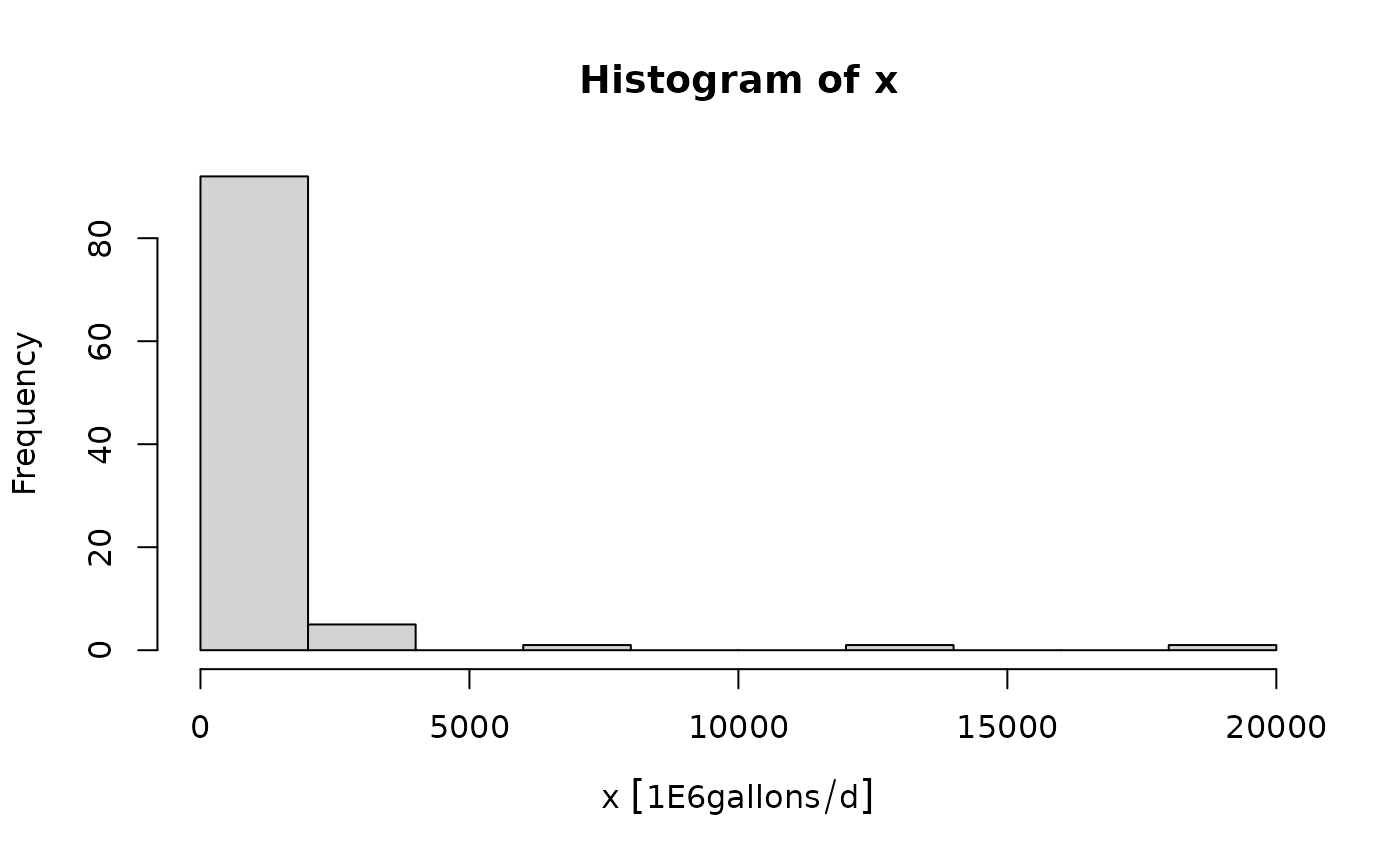
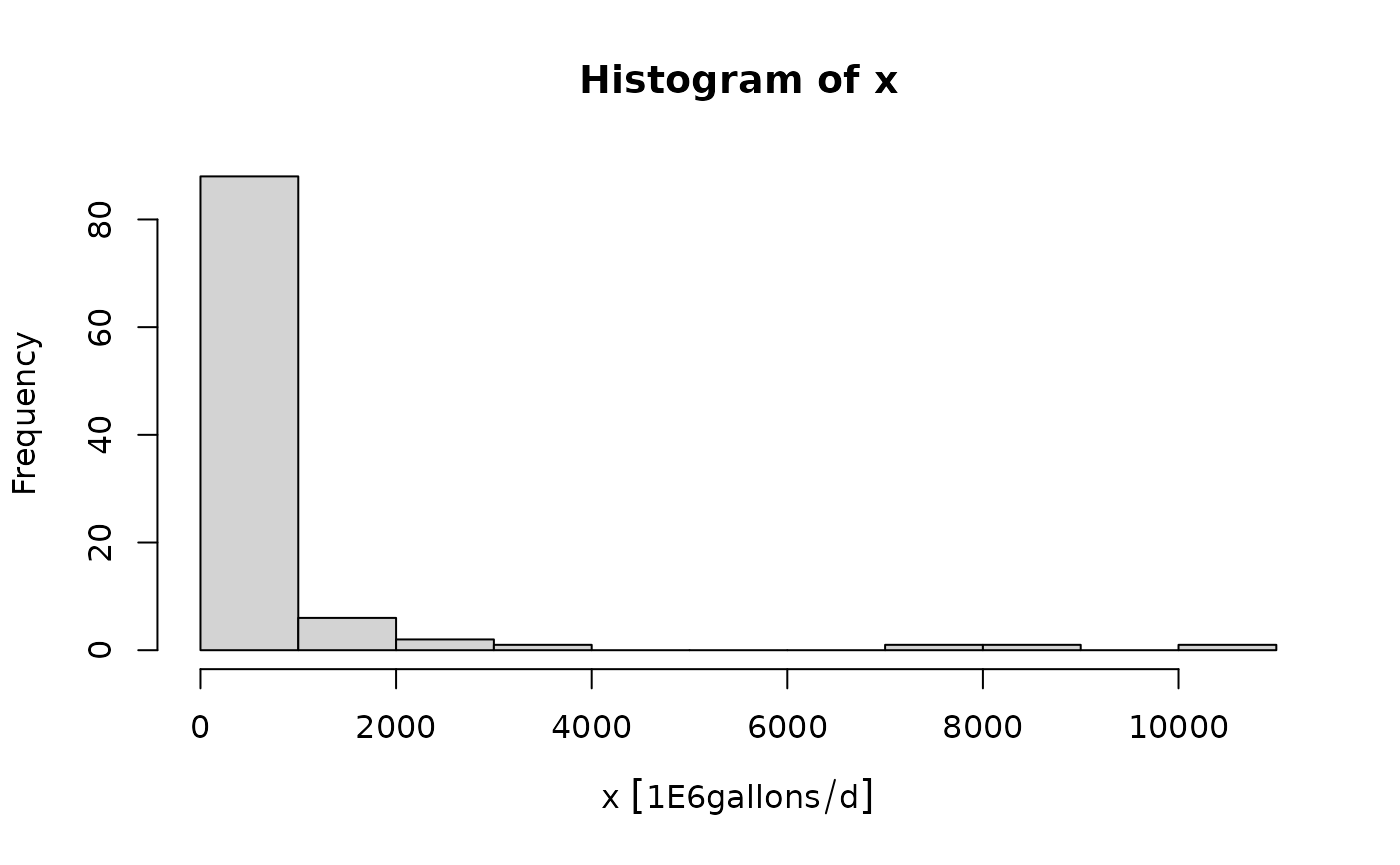
Built site for ldc: 0.1.0@d44d15d

diff --git a/articles/units.html b/articles/units.html
@@ -97,76 +97,76 @@
 <span class="va">x</span> <span class="op">&lt;-</span> <span class="fu"><a href="https://rdrr.io/pkg/units/man/units.html" class="external-link">set_units</a></span><span class="op">(</span><span class="va">x</span>, <span class="st">"ft^3/s"</span><span class="op">)</span>
 <span class="va">x</span>
 <span class="co">#&gt; Units: [ft^3/s]</span>
-<span class="co">#&gt;   [1] 3.305217e+03 2.237243e+01 6.843526e+01 5.130397e-01 8.465099e+02</span>
-<span class="co">#&gt;   [6] 3.261493e+01 4.209772e+01 1.619673e+01 2.472124e+01 8.180078e+02</span>
-<span class="co">#&gt;  [11] 5.910870e+03 1.002994e+01 7.187791e+00 5.559155e+02 2.669817e+01</span>
-<span class="co">#&gt;  [16] 7.557542e+01 1.738401e+01 2.705508e+01 4.896507e+00 1.303612e+03</span>
-<span class="co">#&gt;  [21] 1.439782e+01 3.661344e+01 5.021760e+03 1.647707e+02 2.560844e+03</span>
-<span class="co">#&gt;  [26] 7.364910e-01 6.789498e+02 1.184617e+01 7.315961e+01 1.384772e+01</span>
-<span class="co">#&gt;  [31] 7.428468e+02 7.576590e+02 1.375925e+02 5.815625e+00 4.023443e+01</span>
-<span class="co">#&gt;  [36] 2.602308e+01 3.559056e+00 2.981858e+04 7.992568e+01 5.448878e+00</span>
-<span class="co">#&gt;  [41] 5.757906e+02 2.459403e+00 1.312775e+03 6.292475e+00 7.633091e+00</span>
-<span class="co">#&gt;  [46] 3.772260e+02 1.311790e+01 4.947215e+02 1.808063e+02 2.243639e+02</span>
-<span class="co">#&gt;  [51] 4.623318e+02 1.027519e+02 2.078196e+02 6.443158e+00 3.172421e+02</span>
-<span class="co">#&gt;  [56] 1.887825e+00 1.548666e+02 3.073110e+01 1.224608e+00 1.333124e+01</span>
-<span class="co">#&gt;  [61] 7.415647e+01 9.282686e+01 9.816047e+02 5.311807e+02 9.999362e+03</span>
-<span class="co">#&gt;  [66] 7.673251e+01 1.993032e+04 3.037631e+02 4.225274e-01 8.347452e+01</span>
-<span class="co">#&gt;  [71] 6.504620e+02 1.784513e+03 2.930827e+02 2.668672e+03 8.941402e+00</span>
-<span class="co">#&gt;  [76] 1.019004e+02 4.301757e+00 1.678122e+02 1.166100e+01 2.072369e+01</span>
-<span class="co">#&gt;  [81] 3.715639e+01 1.617803e+02 1.397819e+03 5.458505e+03 3.031891e+02</span>
-<span class="co">#&gt;  [86] 2.377440e+01 1.786722e+01 2.393758e+01 1.984455e+01 7.954231e+02</span>
-<span class="co">#&gt;  [91] 1.380240e+02 3.489321e+03 4.282422e+02 3.968873e+01 7.352239e+01</span>
-<span class="co">#&gt;  [96] 3.573688e+01 5.207961e+01 7.638658e+01 2.172734e+02 1.113797e+01</span></code></pre></div>
+<span class="co">#&gt;   [1]   198.244738     1.377296    22.986791  1744.141817    10.722960</span>
+<span class="co">#&gt;   [6]   184.201175     7.096251    82.587769    58.993986   501.604566</span>
+<span class="co">#&gt;  [11]    30.155371     6.533947    62.429439 17006.730933  2271.703151</span>
+<span class="co">#&gt;  [16]    13.365492   212.617723    27.044502     4.665912    31.864053</span>
+<span class="co">#&gt;  [21]    65.564056   528.648919     4.462644  6016.813560     6.588087</span>
+<span class="co">#&gt;  [26]    14.502402  1392.888883    45.628694    24.164122    50.279935</span>
+<span class="co">#&gt;  [31]    12.234267    44.576009     4.470887    57.691876    40.937223</span>
+<span class="co">#&gt;  [36]    44.090073     5.232488   654.161344    28.645744     5.502458</span>
+<span class="co">#&gt;  [41]  3303.771576   242.737185    11.105492  1083.307517   853.245838</span>
+<span class="co">#&gt;  [46]   110.781533    16.398656   461.277497    69.405736   117.954362</span>
+<span class="co">#&gt;  [51]     2.189945   118.595715  3835.141619    30.486449   159.909549</span>
+<span class="co">#&gt;  [56]    16.240850   151.832580  1233.088694    54.726964    23.100766</span>
+<span class="co">#&gt;  [61]   440.834235   630.081457  1990.296104    12.925787  1587.621005</span>
+<span class="co">#&gt;  [66]     6.142746   630.916843 11173.262114    68.351378 13789.569070</span>
+<span class="co">#&gt;  [71]     1.573709    32.497518   522.000903    14.542676    54.479840</span>
+<span class="co">#&gt;  [76]    31.692962   214.984260    44.418574   114.634036   536.240390</span>
+<span class="co">#&gt;  [81]   291.390345    37.438940    94.015468   790.385016  1454.434591</span>
+<span class="co">#&gt;  [86]   381.905914    30.497195    37.086893     4.214432   926.021152</span>
+<span class="co">#&gt;  [91]  2278.752823    14.901414  2412.694040    34.534378    30.528571</span>
+<span class="co">#&gt;  [96]     3.633051  1329.385884   902.954793    87.276794     6.329255</span></code></pre></div>
 <p>x is a object of type units which can be used with most R expressions:</p>
 <div class="sourceCode" id="cb3"><pre class="downlit sourceCode r">
 <code class="sourceCode R"><span class="va">x</span> <span class="op">*</span> <span class="fl">86400</span>
 <span class="co">#&gt; Units: [ft^3/s]</span>
-<span class="co">#&gt;   [1] 2.855708e+08 1.932978e+06 5.912806e+06 4.432663e+04 7.313846e+07</span>
-<span class="co">#&gt;   [6] 2.817930e+06 3.637243e+06 1.399398e+06 2.135916e+06 7.067587e+07</span>
-<span class="co">#&gt;  [11] 5.106992e+08 8.665870e+05 6.210251e+05 4.803110e+07 2.306722e+06</span>
-<span class="co">#&gt;  [16] 6.529716e+06 1.501978e+06 2.337559e+06 4.230582e+05 1.126321e+08</span>
-<span class="co">#&gt;  [21] 1.243972e+06 3.163401e+06 4.338801e+08 1.423619e+07 2.212569e+08</span>
-<span class="co">#&gt;  [26] 6.363282e+04 5.866127e+07 1.023509e+06 6.320990e+06 1.196443e+06</span>
-<span class="co">#&gt;  [31] 6.418197e+07 6.546174e+07 1.188799e+07 5.024700e+05 3.476255e+06</span>
-<span class="co">#&gt;  [36] 2.248394e+06 3.075024e+05 2.576326e+09 6.905579e+06 4.707831e+05</span>
-<span class="co">#&gt;  [41] 4.974831e+07 2.124924e+05 1.134238e+08 5.436698e+05 6.594990e+05</span>
-<span class="co">#&gt;  [46] 3.259233e+07 1.133386e+06 4.274394e+07 1.562166e+07 1.938504e+07</span>
-<span class="co">#&gt;  [51] 3.994547e+07 8.877762e+06 1.795562e+07 5.566888e+05 2.740972e+07</span>
-<span class="co">#&gt;  [56] 1.631081e+05 1.338047e+07 2.655167e+06 1.058061e+05 1.151819e+06</span>
-<span class="co">#&gt;  [61] 6.407119e+06 8.020241e+06 8.481065e+07 4.589401e+07 8.639449e+08</span>
-<span class="co">#&gt;  [66] 6.629689e+06 1.721980e+09 2.624513e+07 3.650637e+04 7.212198e+06</span>
-<span class="co">#&gt;  [71] 5.619992e+07 1.541820e+08 2.532235e+07 2.305732e+08 7.725371e+05</span>
-<span class="co">#&gt;  [76] 8.804192e+06 3.716718e+05 1.449897e+07 1.007511e+06 1.790527e+06</span>
-<span class="co">#&gt;  [81] 3.210312e+06 1.397782e+07 1.207715e+08 4.716148e+08 2.619554e+07</span>
-<span class="co">#&gt;  [86] 2.054108e+06 1.543728e+06 2.068207e+06 1.714569e+06 6.872456e+07</span>
-<span class="co">#&gt;  [91] 1.192528e+07 3.014773e+08 3.700012e+07 3.429106e+06 6.352335e+06</span>
-<span class="co">#&gt;  [96] 3.087667e+06 4.499678e+06 6.599801e+06 1.877242e+07 9.623207e+05</span></code></pre></div>
+<span class="co">#&gt;   [1]   17128345.4     118998.3    1986058.7  150693853.0     926463.8</span>
+<span class="co">#&gt;   [6]   15914981.5     613116.1    7135583.2    5097080.4   43338634.5</span>
+<span class="co">#&gt;  [11]    2605424.0     564533.1    5393903.5 1469381552.6  196275152.2</span>
+<span class="co">#&gt;  [16]    1154778.5   18370171.3    2336644.9     403134.8    2753054.2</span>
+<span class="co">#&gt;  [21]    5664734.5   45675266.6     385572.4  519852691.6     569210.7</span>
+<span class="co">#&gt;  [26]    1253007.5  120345599.4    3942319.2    2087780.1    4344186.4</span>
+<span class="co">#&gt;  [31]    1057040.6    3851367.1     386284.6    4984578.1    3536976.1</span>
+<span class="co">#&gt;  [36]    3809382.3     452087.0   56519540.1    2474992.3     475412.4</span>
+<span class="co">#&gt;  [41]  285445864.1   20972492.8     959514.5   93597769.4   73720440.4</span>
+<span class="co">#&gt;  [46]    9571524.5    1416843.9   39854375.8    5996655.6   10191256.8</span>
+<span class="co">#&gt;  [51]     189211.2   10246669.8  331356235.9    2634029.2   13816185.0</span>
+<span class="co">#&gt;  [56]    1403209.4   13118335.0  106538863.1    4728409.7    1995906.2</span>
+<span class="co">#&gt;  [61]   38088077.9   54439037.9  171961583.4    1116788.0  137170454.8</span>
+<span class="co">#&gt;  [66]     530733.3   54511215.3  965369846.7    5905559.0 1191418767.6</span>
+<span class="co">#&gt;  [71]     135968.5    2807785.5   45100878.0    1256487.2    4707058.2</span>
+<span class="co">#&gt;  [76]    2738271.9   18574640.1    3837764.8    9904380.7   46331169.7</span>
+<span class="co">#&gt;  [81]   25176125.8    3234724.4    8122936.4   68289265.4  125663148.6</span>
+<span class="co">#&gt;  [86]   32996670.9    2634957.6    3204307.6     364126.9   80008227.6</span>
+<span class="co">#&gt;  [91]  196884243.9    1287482.2  208456765.0    2983770.3    2637668.6</span>
+<span class="co">#&gt;  [96]     313895.6  114858940.3   78015294.2    7540715.0     546847.6</span></code></pre></div>
 <p>The units can be converted:</p>
 <div class="sourceCode" id="cb4"><pre class="downlit sourceCode r">
 <code class="sourceCode R"><span class="co">## convert to cubic feet per day</span>
 <span class="va">x</span> <span class="op">&lt;-</span> <span class="fu"><a href="https://rdrr.io/pkg/units/man/units.html" class="external-link">set_units</a></span><span class="op">(</span><span class="va">x</span>, <span class="st">"ft^3/d"</span><span class="op">)</span>
 <span class="va">x</span>
 <span class="co">#&gt; Units: [ft^3/d]</span>
-<span class="co">#&gt;   [1] 2.855708e+08 1.932978e+06 5.912806e+06 4.432663e+04 7.313846e+07</span>
-<span class="co">#&gt;   [6] 2.817930e+06 3.637243e+06 1.399398e+06 2.135916e+06 7.067587e+07</span>
-<span class="co">#&gt;  [11] 5.106992e+08 8.665870e+05 6.210251e+05 4.803110e+07 2.306722e+06</span>
-<span class="co">#&gt;  [16] 6.529716e+06 1.501978e+06 2.337559e+06 4.230582e+05 1.126321e+08</span>
-<span class="co">#&gt;  [21] 1.243972e+06 3.163401e+06 4.338801e+08 1.423619e+07 2.212569e+08</span>
-<span class="co">#&gt;  [26] 6.363282e+04 5.866127e+07 1.023509e+06 6.320990e+06 1.196443e+06</span>
-<span class="co">#&gt;  [31] 6.418197e+07 6.546174e+07 1.188799e+07 5.024700e+05 3.476255e+06</span>
-<span class="co">#&gt;  [36] 2.248394e+06 3.075024e+05 2.576326e+09 6.905579e+06 4.707831e+05</span>
-<span class="co">#&gt;  [41] 4.974831e+07 2.124924e+05 1.134238e+08 5.436698e+05 6.594990e+05</span>
-<span class="co">#&gt;  [46] 3.259233e+07 1.133386e+06 4.274394e+07 1.562166e+07 1.938504e+07</span>
-<span class="co">#&gt;  [51] 3.994547e+07 8.877762e+06 1.795562e+07 5.566888e+05 2.740972e+07</span>
-<span class="co">#&gt;  [56] 1.631081e+05 1.338047e+07 2.655167e+06 1.058061e+05 1.151819e+06</span>
-<span class="co">#&gt;  [61] 6.407119e+06 8.020241e+06 8.481065e+07 4.589401e+07 8.639449e+08</span>
-<span class="co">#&gt;  [66] 6.629689e+06 1.721980e+09 2.624513e+07 3.650637e+04 7.212198e+06</span>
-<span class="co">#&gt;  [71] 5.619992e+07 1.541820e+08 2.532235e+07 2.305732e+08 7.725371e+05</span>
-<span class="co">#&gt;  [76] 8.804192e+06 3.716718e+05 1.449897e+07 1.007511e+06 1.790527e+06</span>
-<span class="co">#&gt;  [81] 3.210312e+06 1.397782e+07 1.207715e+08 4.716148e+08 2.619554e+07</span>
-<span class="co">#&gt;  [86] 2.054108e+06 1.543728e+06 2.068207e+06 1.714569e+06 6.872456e+07</span>
-<span class="co">#&gt;  [91] 1.192528e+07 3.014773e+08 3.700012e+07 3.429106e+06 6.352335e+06</span>
-<span class="co">#&gt;  [96] 3.087667e+06 4.499678e+06 6.599801e+06 1.877242e+07 9.623207e+05</span></code></pre></div>
+<span class="co">#&gt;   [1]   17128345.4     118998.3    1986058.7  150693853.0     926463.8</span>
+<span class="co">#&gt;   [6]   15914981.5     613116.1    7135583.2    5097080.4   43338634.5</span>
+<span class="co">#&gt;  [11]    2605424.0     564533.1    5393903.5 1469381552.6  196275152.2</span>
+<span class="co">#&gt;  [16]    1154778.5   18370171.3    2336644.9     403134.8    2753054.2</span>
+<span class="co">#&gt;  [21]    5664734.5   45675266.6     385572.4  519852691.6     569210.7</span>
+<span class="co">#&gt;  [26]    1253007.5  120345599.4    3942319.2    2087780.1    4344186.4</span>
+<span class="co">#&gt;  [31]    1057040.6    3851367.1     386284.6    4984578.1    3536976.1</span>
+<span class="co">#&gt;  [36]    3809382.3     452087.0   56519540.1    2474992.3     475412.4</span>
+<span class="co">#&gt;  [41]  285445864.1   20972492.8     959514.5   93597769.4   73720440.4</span>
+<span class="co">#&gt;  [46]    9571524.5    1416843.9   39854375.8    5996655.6   10191256.8</span>
+<span class="co">#&gt;  [51]     189211.2   10246669.8  331356235.9    2634029.2   13816185.0</span>
+<span class="co">#&gt;  [56]    1403209.4   13118335.0  106538863.1    4728409.7    1995906.2</span>
+<span class="co">#&gt;  [61]   38088077.9   54439037.9  171961583.4    1116788.0  137170454.8</span>
+<span class="co">#&gt;  [66]     530733.3   54511215.3  965369846.7    5905559.0 1191418767.6</span>
+<span class="co">#&gt;  [71]     135968.5    2807785.5   45100878.0    1256487.2    4707058.2</span>
+<span class="co">#&gt;  [76]    2738271.9   18574640.1    3837764.8    9904380.7   46331169.7</span>
+<span class="co">#&gt;  [81]   25176125.8    3234724.4    8122936.4   68289265.4  125663148.6</span>
+<span class="co">#&gt;  [86]   32996670.9    2634957.6    3204307.6     364126.9   80008227.6</span>
+<span class="co">#&gt;  [91]  196884243.9    1287482.2  208456765.0    2983770.3    2637668.6</span>
+<span class="co">#&gt;  [96]     313895.6  114858940.3   78015294.2    7540715.0     546847.6</span></code></pre></div>
 <p>Units can be plotted:</p>
 <div class="sourceCode" id="cb5"><pre class="downlit sourceCode r">
 <code class="sourceCode R"><span class="co">## convert to million gallons per day</span>

diff --git a/index.html b/index.html
@@ -79,7 +79,8 @@
 </h1></div>
 <!-- badges: start -->
 
-<p><a href="https://app.codecov.io/gh/TxWRI/ldc?branch=main" class="external-link"><img src="https://codecov.io/gh/TxWRI/ldc/branch/main/graph/badge.svg" alt="Codecov test coverage"></a> <!-- badges: end --></p>
+
+<!-- badges: end -->
 <p>ldc provides automated and fairly opinionated functions for generating pollutant load duration curves (LDCs) in freshwater streams. Due to the automated nature, there isn’t much ability to adjust methodology or customize the generated LDCs since much of the calculation is abstracted away from the user.</p>
 <p>ldc has three major functions:</p>
 <ul>
@@ -283,6 +284,7 @@
 <li><a href="https://www.repostatus.org/#wip" class="external-link"><img src="https://www.repostatus.org/badges/latest/wip.svg" alt="Project Status: WIP – Initial development is in progress, but there has not yet been a stable, usable release suitable for the public."></a></li>
 <li><a href="https://github.com/TxWRI/ldc/actions/workflows/check-standard.yaml" class="external-link"><img src="https://github.com/TxWRI/ldc/actions/workflows/check-standard.yaml/badge.svg" alt="R-CMD-check"></a></li>
 <li><a href="https://choosealicense.com/" class="external-link"><img src="https://img.shields.io/badge/license-MIT%20+%20file%20LICENSE-lightgrey.svg" alt="license"></a></li>
+<li><a href="https://app.codecov.io/gh/TxWRI/ldc?branch=main" class="external-link"><img src="https://codecov.io/gh/TxWRI/ldc/branch/main/graph/badge.svg" alt="Codecov test coverage"></a></li>
 </ul>
 </div>
 
